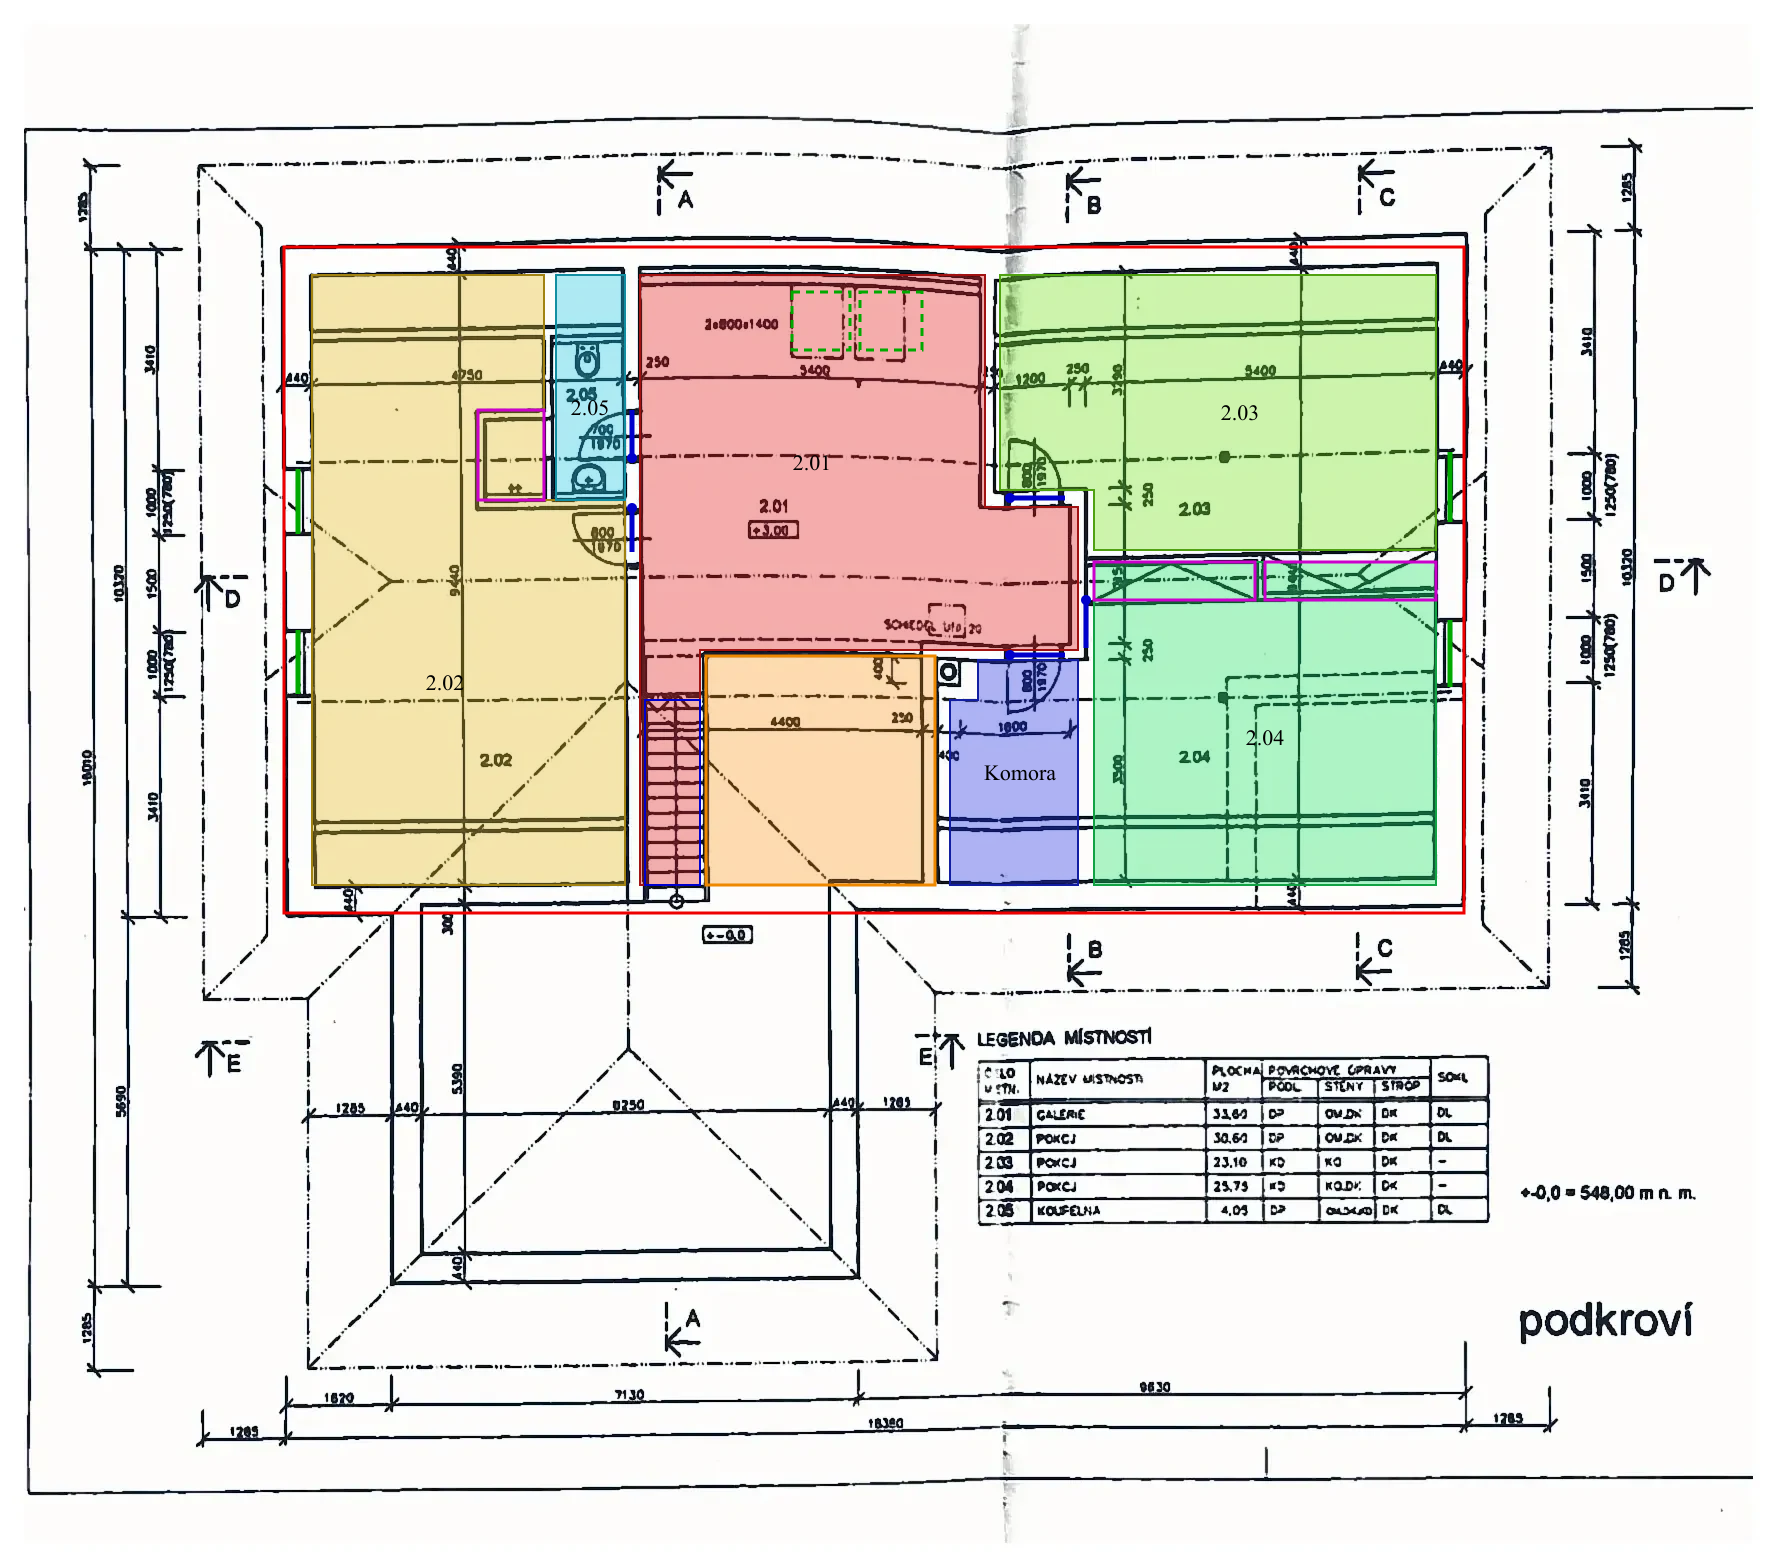
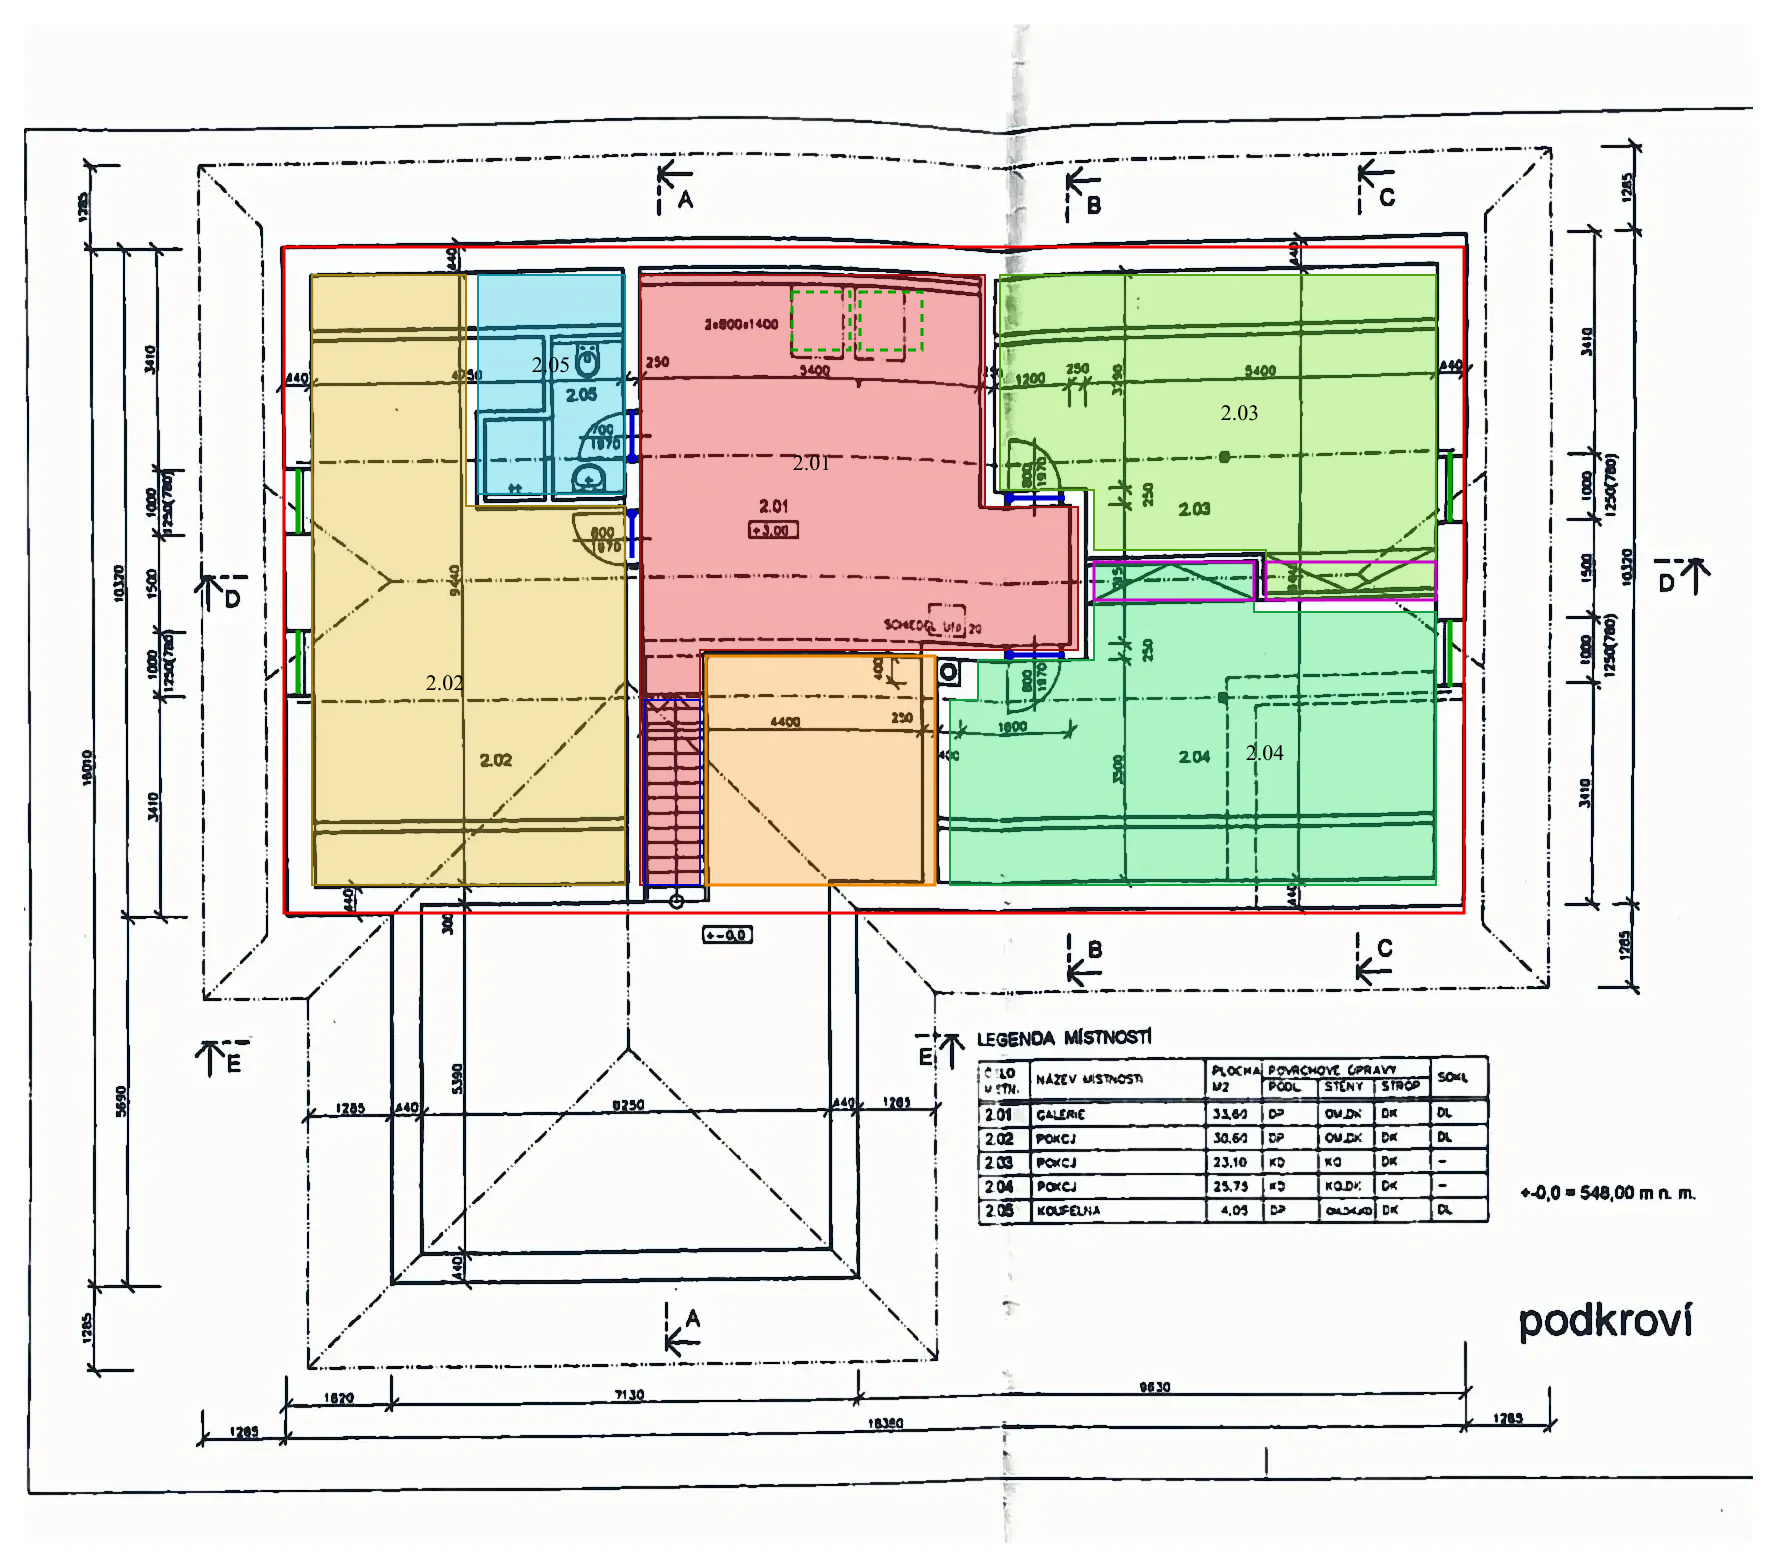
Podkrovi podle majitele, vracene styly galerie
Koupelna 2.05 je obdelnik vykousnuty z pokoje 2.02 (obdelnik ve vykresu
je sprchovy kout uvnitr), mezi koupelnou a pokojem je zed. Mistnost bez
cisla u otvoru do haly je soucast pokoje 2.04, jediny vchod vede
z chodbicky u galerie; odhadnute dvere ze zdi chodbicky odpadly. Pricka
mezi 2.03 a 2.04 uskakuje: skrin u okna patri k 2.03, u dveri k 2.04.

Styly galerie fotek omylem odesly v commitu 3496914 (energeticky
stitek), fotky se od te doby skladaly pod sebe v plne sirce -- stranka
mela na desktopu 21 000 px. Mrizka je zpet: tri sloupce, na telefonu
jeden.

diff --git a/src/data/pudorys.ts b/src/data/pudorys.ts
@@ -391,9 +391,9 @@ export const prizemi: PudorysSchema = {
  *
  * Co je ve výkresu jasné: pět místností z legendy, otvor v podlaze galerie
  * nad jídelní halou, schodiště přicházející z jihu, dvě střešní okna nad
- * galerií a čtyři okna ve štítových zdech. Co je odhad, je poznamenáno
- * u příslušné položky — hlavně dveře do pokoje 2.04, které ve skenu nejsou
- * vidět, a nečíslovaná místnost vedle otvoru do haly.
+ * galerií a čtyři okna ve štítových zdech. Kde se výkres a skutečnost
+ * rozcházejí (koupelna, hranice pokojů 2.03 a 2.04), platí slovo majitele
+ * a je to poznamenáno u položky.
  */
 export const podkrovi: PudorysSchema = {
 	viewBox: [260, 225, 1230, 710],
@@ -424,12 +424,12 @@ export const podkrovi: PudorysSchema = {
 		},
 		{
 			cislo: '2.02',
-			/* přes celou hloubku domu, koupelnu obchází */
+			/* přes celou hloubku domu, koupelna z něj vykusuje obdélník v severovýchodním rohu */
 			body: [
 				[312, 275],
-				[544, 275],
-				[544, 500],
-				[625, 500],
+				[466, 275],
+				[466, 506],
+				[625, 506],
 				[625, 885],
 				[312, 885],
 			],
@@ -437,12 +437,15 @@ export const podkrovi: PudorysSchema = {
 		},
 		{
 			cislo: '2.03',
-			/* výklenek u chodbičky (x 1000–1078) není od pokoje oddělený zdí;
-			 * s ním vychází plocha větší než v legendě, takže je to nejisté */
+			/* výklenek u chodbičky (x 1000–1078) není od pokoje oddělený zdí.
+			 * Příčka k pokoji 2.04 uskakuje: vestavěná skříň u okna patří sem,
+			 * skříň u dveří k 2.04 (podle majitele) */
 			body: [
 				[1000, 275],
 				[1436, 275],
-				[1436, 550],
+				[1436, 600],
+				[1266, 600],
+				[1266, 550],
 				[1094, 550],
 				[1094, 490],
 				[1000, 490],
@@ -451,48 +454,39 @@ export const podkrovi: PudorysSchema = {
 		},
 		{
 			cislo: '2.04',
-			/* pás u příčky (y 562–600) vypadá na vestavěné skříně, viz `skrine` */
+			/* tvar L: výkres kreslí u otvoru do haly samostatnou místnost bez čísla,
+			 * podle majitele je to součást pokoje a jediný vchod vede z chodbičky
+			 * u galerie. Výřez v jihozápadním rohu je komín. */
 			body: [
 				[1094, 562],
-				[1436, 562],
+				[1254, 562],
+				[1254, 612],
+				[1436, 612],
 				[1436, 885],
-				[1094, 885],
+				[950, 885],
+				[950, 700],
+				[978, 700],
+				[978, 660],
+				[1094, 660],
 			],
-			popisek: [1265, 745],
+			popisek: [1265, 760],
 		},
 		{
 			cislo: '2.05',
-			/* severní hranice je odhad: čára na y 340 ve skenu je spíš linie
-			 * střechy než zeď, koupelna tedy jde až k obvodové zdi */
+			/* obdélník včetně sprchového koutu, který výkres kreslí zvlášť
+			 * (podle majitele). Severní hranice je odhad: čára na y 340 ve
+			 * skenu je spíš linie střechy než zeď, koupelna jde k obvodové zdi */
 			body: [
-				[556, 275],
+				[478, 275],
 				[625, 275],
-				[625, 500],
-				[556, 500],
+				[625, 494],
+				[478, 494],
 			],
-			popisek: [590, 330],
-			jenCislo: true,
+			popisek: [551, 372],
 		},
 	],
 
 	terasy: [],
-
-	prostory: [
-		{
-			/* ve výkresu bez čísla a bez názvu, 1,8 × 3,5 m s komínem v rohu;
-			 * název je odhad */
-			nazev: 'Komora',
-			body: [
-				[978, 660],
-				[1078, 660],
-				[1078, 885],
-				[950, 885],
-				[950, 700],
-				[978, 700],
-			],
-			popisek: [1020, 780],
-		},
-	],
 
 	otvory: [
 		{
@@ -507,22 +501,16 @@ export const podkrovi: PudorysSchema = {
 		},
 	],
 
-	/*
-	 * Směr otvírání je ze skenu čitelný u všech čtyř nakreslených dveří.
-	 * Dveře do pokoje 2.04 ve výkresu vidět nejsou; jsou odhadnuté ve zdi
-	 * chodbičky, kde jediné dávají smysl.
-	 */
+	/* směr otvírání je ze skenu čitelný u všech čtyř dveří */
 	dvere: [
 		// galerie → pokoj 2.02, křídlo do pokoje
-		{ od: [632, 508], do: [632, 552], strana: 'vpravo' },
+		{ od: [632, 514], do: [632, 558], strana: 'vpravo' },
 		// galerie → koupelna, křídlo do koupelny
 		{ od: [632, 458], do: [632, 410], strana: 'vlevo' },
 		// chodbička → pokoj 2.03, křídlo do pokoje
 		{ od: [1010, 498], do: [1065, 498], strana: 'vlevo' },
-		// chodbička → komora, křídlo do komory
+		// chodbička → pokoj 2.04, křídlo do pokoje
 		{ od: [1010, 655], do: [1065, 655], strana: 'vpravo' },
-		// chodbička → pokoj 2.04: odhad, ve skenu nejsou
-		{ od: [1086, 600], do: [1086, 648], strana: 'vlevo' },
 	],
 
 	/* okna ve štítových zdech; polohy odečtené ze skenu, výšky parapetů neřeší */
@@ -541,12 +529,10 @@ export const podkrovi: PudorysSchema = {
 		{ x: 860, y: 292, sirka: 62, vyska: 58 },
 	],
 
+	/* vestavěné skříně podél příčky mezi pokoji 2.03 a 2.04: u dveří v 2.04, u okna v 2.03 */
 	skrine: [
-		// pokoj 2.02: vestavěná skříň vedle koupelny
-		{ x: 478, y: 410, sirka: 66, vyska: 90 },
-		// pokoj 2.04: dvě skříně podél příčky k pokoji 2.03
-		{ x: 1094, y: 562, sirka: 161, vyska: 38 },
-		{ x: 1265, y: 562, sirka: 171, vyska: 38 },
+		{ x: 1094, y: 562, sirka: 160, vyska: 38 },
+		{ x: 1266, y: 562, sirka: 170, vyska: 38 },
 	],
 
 	/* schodiště přichází zdola z jihu, výstup je u galerie */
